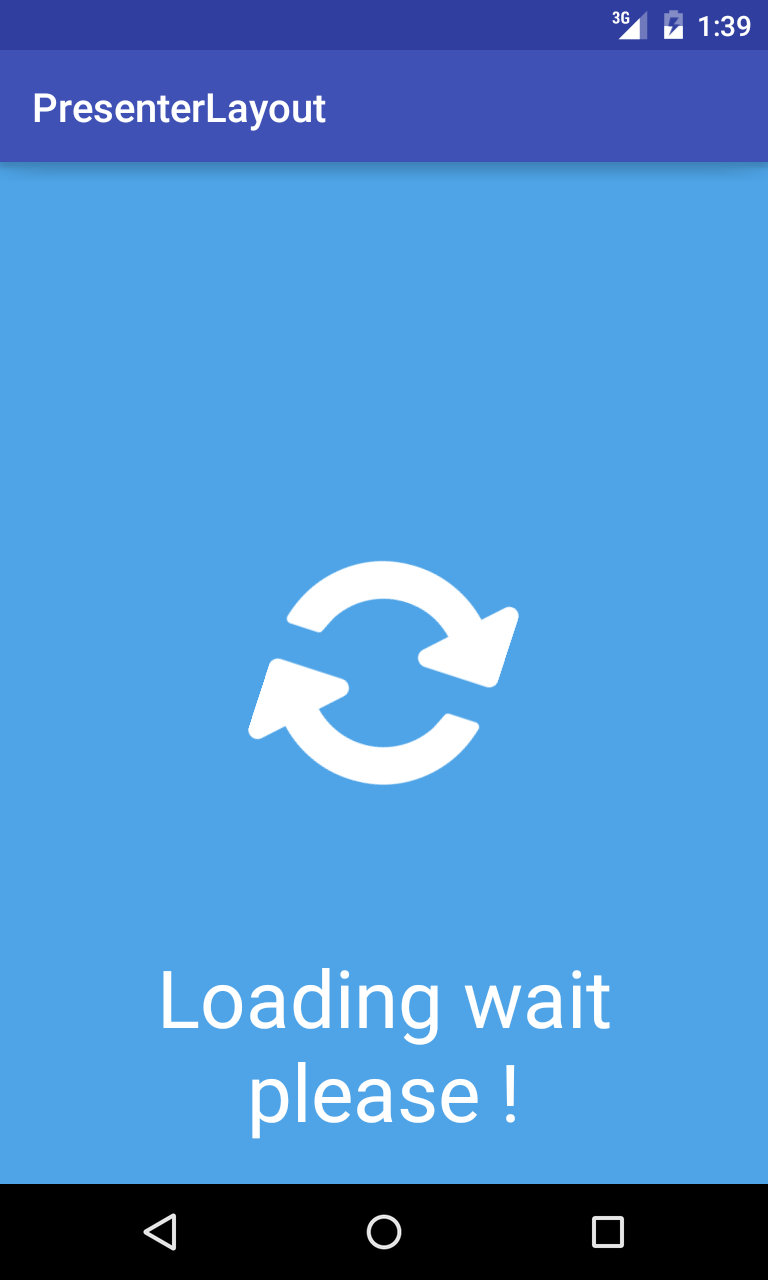
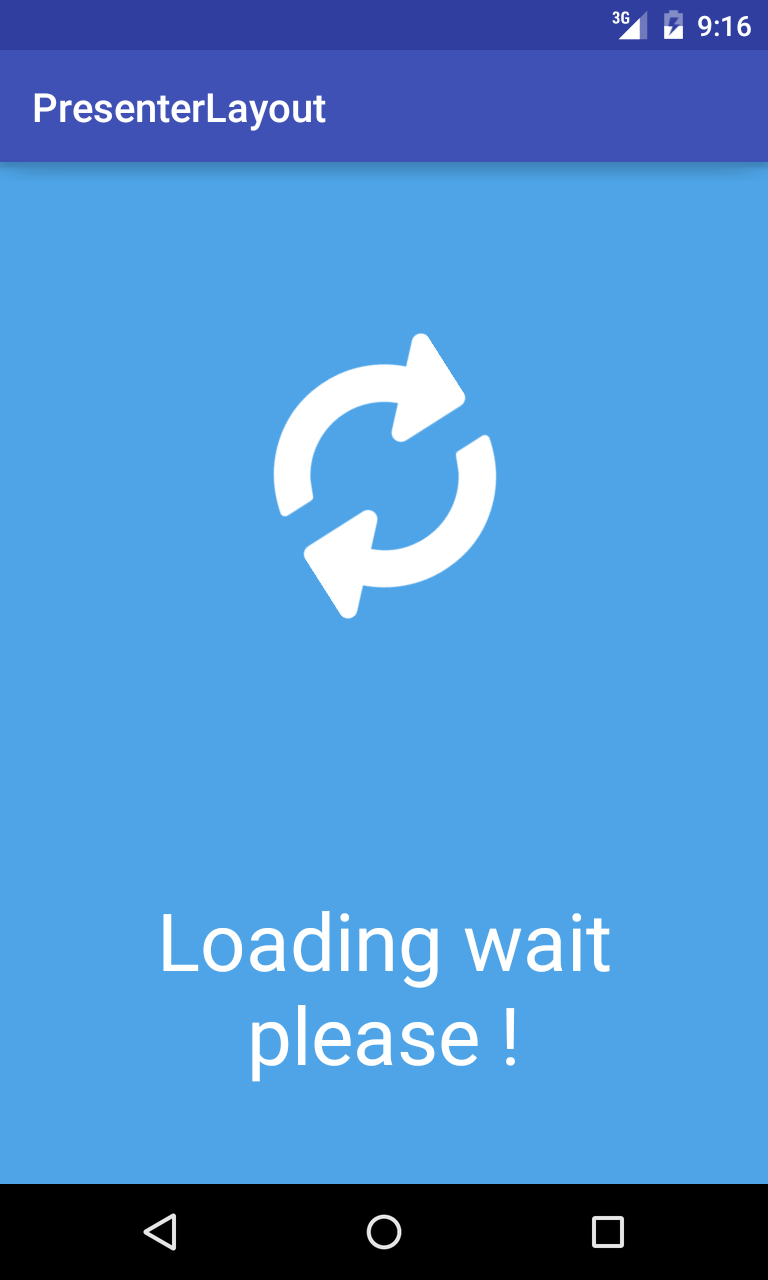
Layout refactoring

Changed region(s): [[0.1875, 0.7188, 0.8125, 0.9062], [0.3125, 0.25, 0.6875, 0.625], [0.9062, 0.0, 0.9688, 0.0312]]

diff --git a/presenterlayout/src/main/java/ua/com/crosp/solutions/library/presenterlayout/view/ErrorView.java b/presenterlayout/src/main/java/ua/com/crosp/solutions/library/presenterlayout/view/ErrorView.java
@@ -4,7 +4,7 @@ import android.content.Context;
 import android.support.v4.widget.SwipeRefreshLayout;
 import android.util.AttributeSet;
 import android.view.View;
-import android.widget.FrameLayout;
+import android.widget.LinearLayout;
 import android.widget.TextView;
 
 import com.joanzapata.iconify.widget.IconTextView;
@@ -21,7 +21,7 @@ public class ErrorView extends SwipeRefreshLayout {
     // Views
     private IconTextView mIconTextViewErrorIcon;
     private TextView mTextViewError;
-    private FrameLayout mFrameLayoutContainer;
+    private LinearLayout mLinearLayoutContainer;
     // Variables
     private boolean mMeasured = false;
     private boolean mPreMeasureRefreshing = false;
@@ -72,13 +72,13 @@ public class ErrorView extends SwipeRefreshLayout {
     }
 
     public void setErrorBackgroundColor(int backgroundColor) {
-        mFrameLayoutContainer.setBackgroundColor(backgroundColor);
+        mLinearLayoutContainer.setBackgroundColor(backgroundColor);
     }
 
     private void findViews(View parentView) {
         mIconTextViewErrorIcon = (IconTextView) parentView.findViewById(R.id.icon_text_view_error_icon);
         mTextViewError = (TextView) parentView.findViewById(R.id.text_view_error_text);
-        mFrameLayoutContainer = (FrameLayout) parentView.findViewById(R.id.frame_layout_view_container);
+        mLinearLayoutContainer = (LinearLayout) parentView.findViewById(R.id.linear_layout_view_container);
     }
     public IconTextView getIconTextViewErrorIcon() {
         return mIconTextViewErrorIcon;
@@ -88,8 +88,5 @@ public class ErrorView extends SwipeRefreshLayout {
         return mTextViewError;
     }
 
-    public FrameLayout getFrameLayoutContainer() {
-        return mFrameLayoutContainer;
-    }
 
 }

diff --git a/presenterlayout/src/main/java/ua/com/crosp/solutions/library/presenterlayout/view/NoConnectionView.java b/presenterlayout/src/main/java/ua/com/crosp/solutions/library/presenterlayout/view/NoConnectionView.java
@@ -4,7 +4,7 @@ import android.content.Context;
 import android.support.v4.widget.SwipeRefreshLayout;
 import android.util.AttributeSet;
 import android.view.View;
-import android.widget.FrameLayout;
+import android.widget.LinearLayout;
 import android.widget.TextView;
 
 import com.joanzapata.iconify.widget.IconTextView;
@@ -20,7 +20,7 @@ public class NoConnectionView extends SwipeRefreshLayout {
     // Views
     private IconTextView mIconTextViewNoConnectionIcon;
     private TextView mTextViewNoConnection;
-    private FrameLayout mFrameLayoutContainer;
+    private LinearLayout mLinearLayoutContainer;
     // Variables
     private boolean mMeasured = false;
     private boolean mPreMeasureRefreshing = false;
@@ -63,7 +63,7 @@ public class NoConnectionView extends SwipeRefreshLayout {
     }
 
     public void setNoConnectionBackgroundColor(int backgroundColor) {
-        mFrameLayoutContainer.setBackgroundColor(backgroundColor);
+        mLinearLayoutContainer.setBackgroundColor(backgroundColor);
     }
 
     public void initView() {
@@ -74,7 +74,7 @@ public class NoConnectionView extends SwipeRefreshLayout {
     }
 
     private void findViews(View inflatedView) {
-        mFrameLayoutContainer = (FrameLayout) inflatedView.findViewById(R.id.frame_layout_view_container);
+        mLinearLayoutContainer = (LinearLayout) inflatedView.findViewById(R.id.linear_layout_view_container);
         mIconTextViewNoConnectionIcon = (IconTextView) inflatedView.findViewById(R.id.icon_text_view_no_connection_icon);
         mTextViewNoConnection = (TextView) inflatedView.findViewById(R.id.text_view_no_connection_text);
     }

diff --git a/presenterlayout/src/main/java/ua/com/crosp/solutions/library/presenterlayout/view/SuccessView.java b/presenterlayout/src/main/java/ua/com/crosp/solutions/library/presenterlayout/view/SuccessView.java
@@ -4,7 +4,7 @@ import android.content.Context;
 import android.util.AttributeSet;
 import android.view.View;
 import android.widget.Button;
-import android.widget.FrameLayout;
+import android.widget.LinearLayout;
 import android.widget.TextView;
 
 import com.joanzapata.iconify.widget.IconButton;
@@ -17,7 +17,8 @@ import ua.com.crosp.solutions.library.presenterview.R;
  * Project : PresenterLayout
  * Package : ua.com.crosp.solutions.library.presenterlayout.view
  */
-public class SuccessView extends FrameLayout {
+public class SuccessView extends LinearLayout {
+    public static final int WEIGHT_SUM = 6;
     // Views
     private IconTextView mIconTextViewSuccess;
     private Button mButtonSuccess;
@@ -33,12 +34,10 @@ public class SuccessView extends FrameLayout {
         initView();
     }
 
-    public SuccessView(Context context, AttributeSet attrs, int defStyleAttr) {
-        super(context, attrs, defStyleAttr);
-        initView();
-    }
 
     public void initView() {
+        setWeightSum(WEIGHT_SUM);
+        setOrientation(VERTICAL);
         View inflatedView = inflate(getContext(), R.layout.view_overlapping_default_success, this);
         inflatedView.setBackgroundColor(getResources().getColor(R.color.default_background_success_layout));
         findViews(inflatedView);
@@ -62,6 +61,7 @@ public class SuccessView extends FrameLayout {
     public Button getButtonSuccess() {
         return mButtonSuccess;
     }
+
     public void setSuccessIcon(String successIcon) {
         mIconTextViewSuccess.setText(successIcon);
     }

diff --git a/presenterlayout/src/main/java/ua/com/crosp/solutions/library/presenterlayout/view/LoadingView.java b/presenterlayout/src/main/java/ua/com/crosp/solutions/library/presenterlayout/view/LoadingView.java
@@ -3,7 +3,7 @@ package ua.com.crosp.solutions.library.presenterlayout.view;
 import android.content.Context;
 import android.util.AttributeSet;
 import android.view.View;
-import android.widget.FrameLayout;
+import android.widget.LinearLayout;
 import android.widget.TextView;
 
 import com.joanzapata.iconify.widget.IconTextView;
@@ -15,7 +15,8 @@ import ua.com.crosp.solutions.library.presenterview.R;
  * Project : PresenterLayout
  * Package : ua.com.crosp.solutions.library.presenterlayout.view
  */
-public class LoadingView extends FrameLayout {
+public class LoadingView extends LinearLayout {
+    public static final int WEIGHT_SUM = 3;
     // Views
     private TextView mTextViewLoading;
     private IconTextView mIconTextViewLoading;
@@ -30,12 +31,10 @@ public class LoadingView extends FrameLayout {
         initView();
     }
 
-    public LoadingView(Context context, AttributeSet attrs, int defStyleAttr) {
-        super(context, attrs, defStyleAttr);
-        initView();
-    }
 
     public void initView() {
+        setWeightSum(WEIGHT_SUM);
+        setOrientation(VERTICAL);
         View inflatedView = inflate(getContext(), R.layout.view_overlapping_default_loading, this);
         inflatedView.setBackgroundColor(getResources().getColor(R.color.default_background_loading_layout));
         findViews(inflatedView);

diff --git a/app/src/main/java/ua/com/crosp/solutions/presenterlayout/MainActivity.java b/app/src/main/java/ua/com/crosp/solutions/presenterlayout/MainActivity.java
@@ -18,7 +18,7 @@ public class MainActivity extends AppCompatActivity {
 
     @Override
     protected void onCreate(Bundle savedInstanceState) {
-        super.onCreate(savedInstanceState);g
+        super.onCreate(savedInstanceState);
         setContentView(R.layout.activity_main);
         mPresenterLayout = (PresenterLayout) findViewById(R.id.presenter_layout_main);
         final NoWifiView noWifiView = new NoWifiView(this);
@@ -39,7 +39,7 @@ public class MainActivity extends AppCompatActivity {
             }
         });
         mPresenterLayout.addOverlappingView(noWifiView, true);
-        mPresenterLayout.addOverlappingView(transparentView);
+        mPresenterLayout.addOverlappingView(transparentView,true);
         mButtonShowTransparent = (Button) findViewById(R.id.button_show_transparent);
         mButtonShowTransparent.setOnClickListener(new View.OnClickListener() {
             @Override

diff --git a/presenterlayout/src/main/java/ua/com/crosp/solutions/library/presenterlayout/layout/PresenterLayout.java b/presenterlayout/src/main/java/ua/com/crosp/solutions/library/presenterlayout/layout/PresenterLayout.java
@@ -344,6 +344,10 @@ public class PresenterLayout extends FrameLayout {
         return false;
     }
 
+    public boolean showOverlappingView(int viewId) {
+        return showOverlappingView(viewId, true);
+    }
+
     /**
      * Remove overlapping view added with {@link #addOverlappingView(View) addOverlappingView} method
      * Note : Default view cannot be removed because they are tied to public methods
